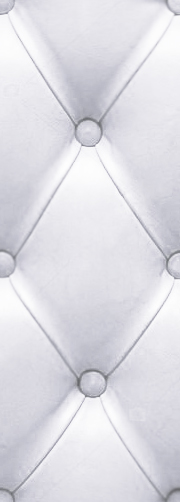
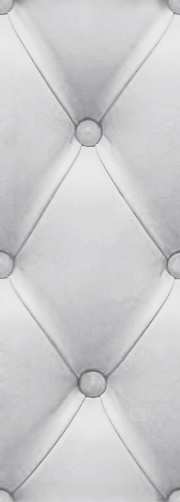
+bg

diff --git a/public/css/main.css b/public/css/main.css
@@ -484,7 +484,7 @@ nav .active:hover {
 }
 
 .bg-black {
-  background: #272727 url("../img/bases/bg2.jpg") center/100px repeat;
+  background: #272727 url("../img/bases/bg.jpg") center/100px repeat;
 }
 
 .error {
@@ -503,7 +503,7 @@ main {
   margin: 0;
   padding: 0;
   width: 100%;
-  background: #272727 url("../img/bases/bg2.jpg") center/100px repeat;
+  background: #272727 url("../img/bases/bg.jpg") center/100px repeat;
 }
 
 main .section {
@@ -568,8 +568,8 @@ main .section-mod {
           box-sizing: border-box;
   margin: auto;
   background-color: black;
-  -webkit-box-shadow: 8px 6px 2px #424242;
-          box-shadow: 8px 6px 2px #424242;
+  -webkit-box-shadow: 8px 6px 2px rgba(0, 0, 0, 0.6);
+          box-shadow: 8px 6px 2px rgba(0, 0, 0, 0.6);
   color: #ECEFF1;
 }
 

diff --git a/src/styles/main.scss b/src/styles/main.scss
@@ -306,7 +306,7 @@ nav{
 
 .bg-black{
   // background-color: black;
-  background: $carbon url('../img/bases/bg2.jpg') center / 100px repeat;
+  background: $carbon url('../img/bases/bg.jpg') center / 100px repeat;
 }
 
 .error{
@@ -337,7 +337,7 @@ main{
   @include pm();
   width: 100%;
   // background-color: $white-lt;
-  background: $carbon url('../img/bases/bg2.jpg') center / 100px repeat;
+  background: $carbon url('../img/bases/bg.jpg') center / 100px repeat;
   .section{
     @include content-box;
     @include wh(100vh);
@@ -364,7 +364,7 @@ main{
     @include content-box;
     margin: auto;
     background-color: black;
-    box-shadow: 8px 6px 2px #424242;
+    box-shadow: 8px 6px 2px rgba(0%, 0%, 0%, 0.6);
     color: $white-lt;
 
     &_item{
